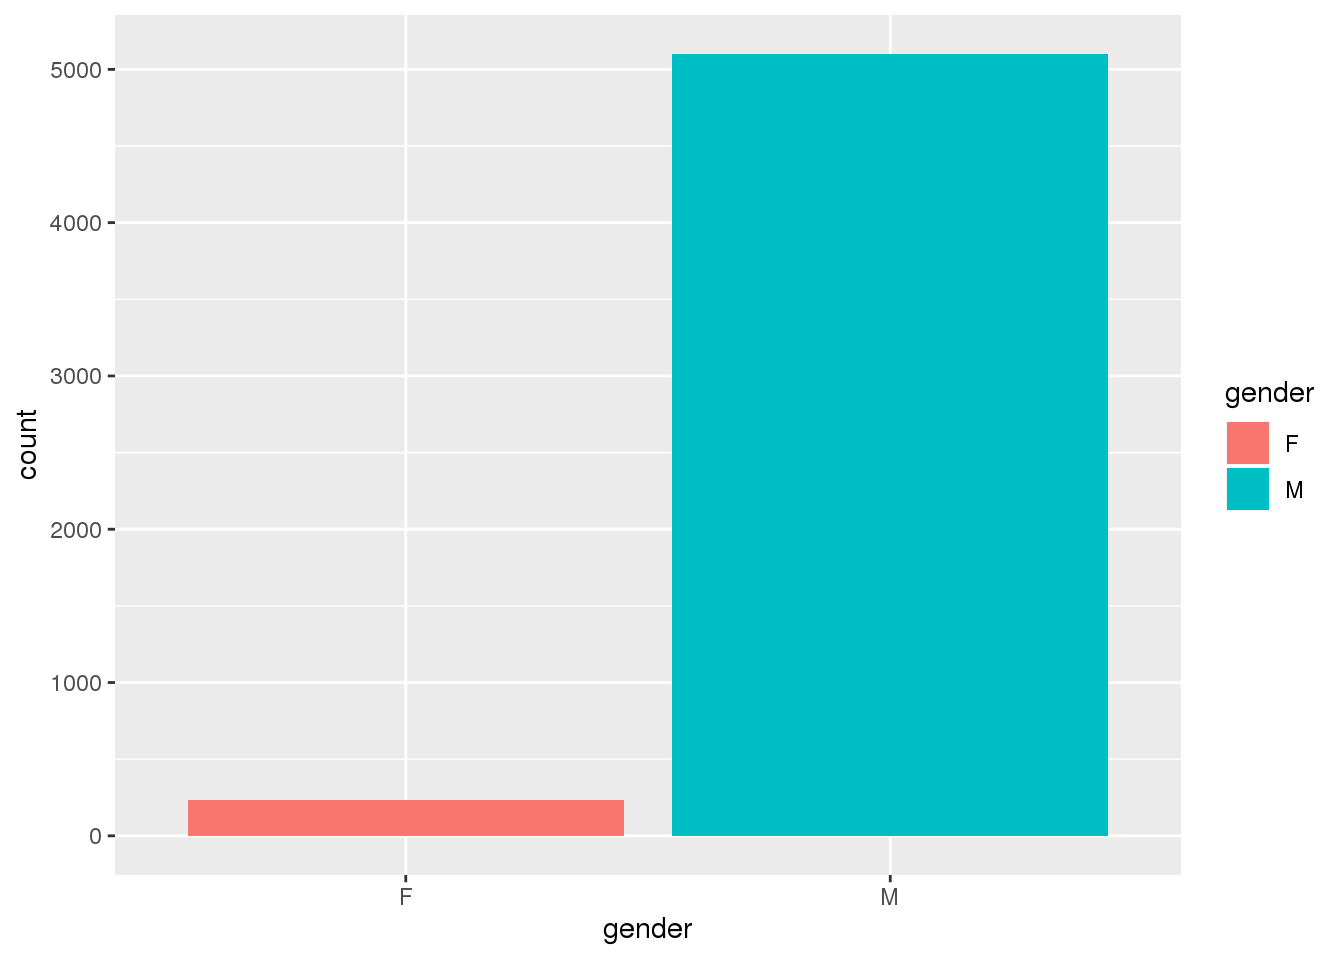
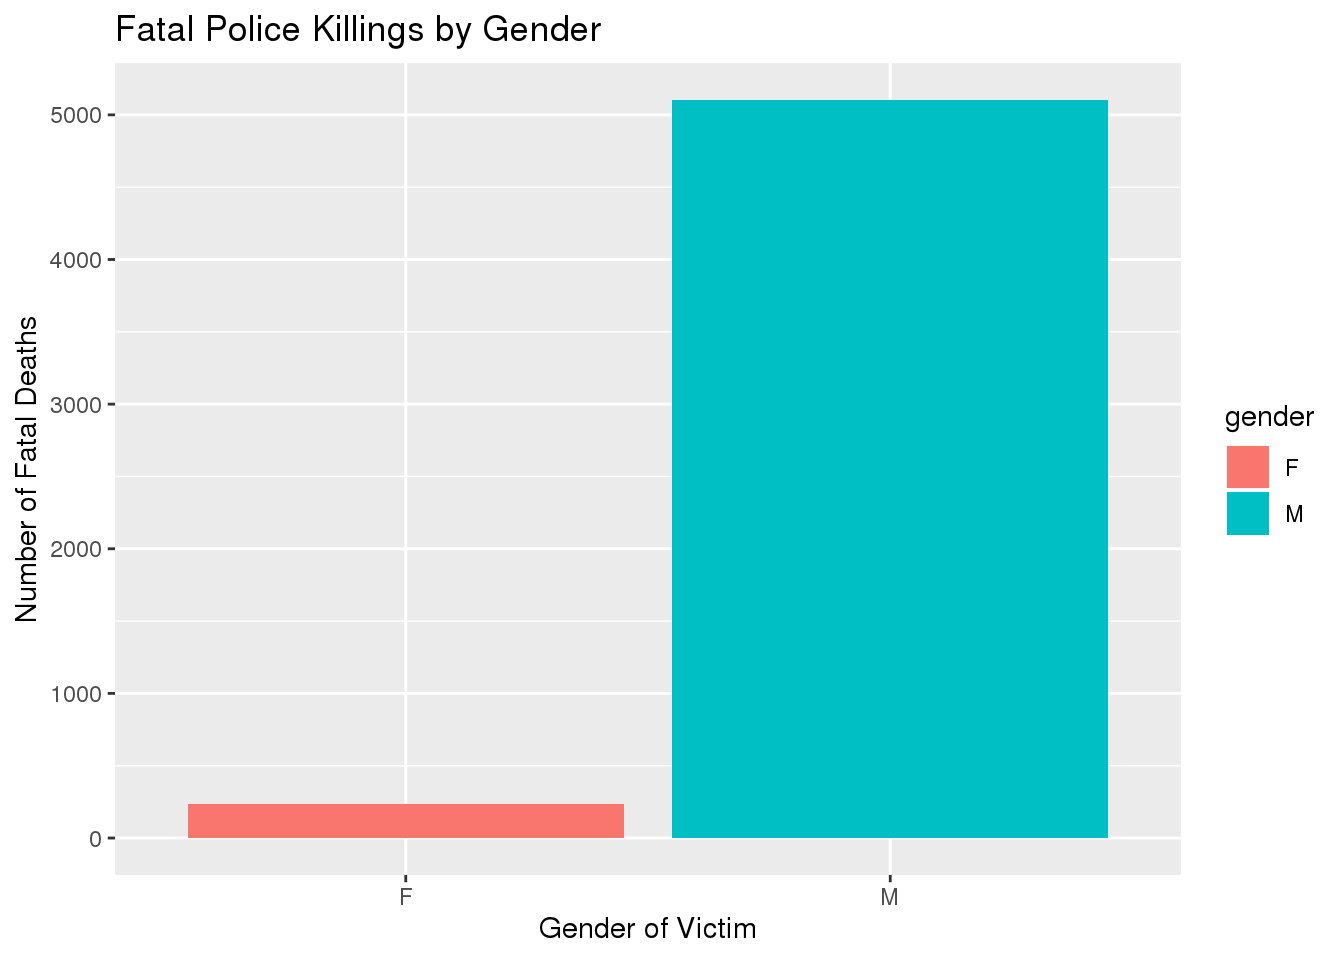
only in need of conclusion

diff --git a/content/post/2020-12-09-police-data/index.html b/content/post/2020-12-09-police-data/index.html
@@ -59,20 +59,31 @@ head(police1)</code></pre>
 ## 4 United States Department of Justice - United States Marshals Service    US
 ## 5                                   Greenville County Sheriff&#39;s Office    SC
 ## 6                                  Mecklenburg County Sheriff&#39;s Office    NC</code></pre>
-<p>Using data obtained from FiveThirtyEight, collected from The Washington Post and the census, the next dataset I am going to analyze the data of police killings and deaths in the United States, from 2015-2020. The variables in the files include the date, state, name of deceased, race, gender, ect. The US population data is from the US Census Bureau website. There are 22,800 observations and 10 variables in the “clean_data.csv” file, which go into depth about police deaths. The “police_killings.csv” goes into depth about the police killing, which has 467 observations, and 34 variables. On the last dataset, the data is a collected from multiple police station from the biggest cities in the United States. With all the different data available, there should be enough data for me to analyze.
+<p>Using data obtained from FiveThirtyEight, collected from The Washington Post and the US Census, the dataset I am going to analyze will consist of fatal police killings in the United States from 2015-2020. The variables in the files include the date of the incident, state, name of deceased, race, gender, ect. The US population data is from the US Census Bureau website. There are 22,800 observations and 10 variables in the “clean_data.csv” file, which go into depth about police deaths. The “police_killings.csv” goes into depth about the police killing, which has 467 observations, and 34 variables. On the last dataset, the data is a collected from multiple police station from the biggest cities in the United States. With all the different data available, there should be enough data for me to analyze.
 In this project, I am going to look through data which explores fatal shootings by on duty police officers since 2015. Analyzing this data, I will be asking a variety of questions to help further understand my knowledge on police killings. As I continue to ask many questions, I will try to create a vizualation of the intrepetations I will gather. I will be making graphs using ggplot in R.</p>
-<div id="question-1-where-do-the-police-killings-tend-to-happen-more-frequently." class="section level1">
-<h1>Question 1: Where do the police killings tend to happen more frequently.</h1>
-<p>Using the “police_killings.csv” data I will analyze where these police killings tend to happen more frequently, like is there a state with notably more killings than the rest. I will preform this analysis with grouping, filtering, and creating a spacial map with ggplot to visualize my analysis.
-<img src="index_files/figure-html/unnamed-chunk-2-1.png" width="672" /></p>
-<p>In the graph above, the points show where the killing was at exactly in United States in the year of 2015 alone. I plotted the longitude on the x axis and latitude on the y axis, and the results shows that there were more police killings on the eastern part of the United States compared to the west.</p>
+<div id="where-do-the-police-killings-tend-to-happen-more-frequently" class="section level1">
+<h1>Where do the police killings tend to happen more frequently?</h1>
+<p>Using the “police_killings.csv” data I will analyze where these police killings tend to happen more frequently, looking for trends like if there is a state with notably more killings than other states. I will preform this analysis with grouping, filtering, and creating a spacial map with ggplot to visualize my analysis.</p>
+<pre class="r"><code>police2 %&gt;% ggplot(aes(longitude, latitude, color = raceethnicity)) + borders(&quot;state&quot;) + 
+    geom_point() + coord_quickmap() + ggtitle(&quot;Pollice Killings in 2015&quot;) + theme(plot.title = element_text(hjust = 0.5))</code></pre>
+<p><img src="index_files/figure-html/unnamed-chunk-2-1.png" width="672" /></p>
+<p>In the graph above, the points show where the killing exactly occured in United States in the year of 2015 alone. I plotted the longitude on the x axis and latitude on the y axis, and the results shows that there were more police killings on the east side of the United States compared to the West. I also colored the dots to show what race was being killed.</p>
+<pre class="r"><code>police4 %&gt;% ggplot(aes(x = state, fill = state)) + geom_bar() + theme(legend.position = &quot;none&quot;) + 
+    theme(axis.text.x = element_text(angle = 90)) + ggtitle(&quot;Pollice Killings by State 2015-2020&quot;) + 
+    theme(plot.title = element_text(hjust = 0.5))</code></pre>
 <p><img src="index_files/figure-html/unnamed-chunk-3-1.png" width="672" /></p>
-<p>In the graph above, I was wanting to answer the question of which states tend to have the most police killings. From the results, it shows that California has significantly more police killings than any other state in the United States. This could be of many reason, for example population, size of police task force, and even the crime rate. More analysis on this to come in the near future.</p>
-</div>
-<div id="question-2-who-tend-to-be-killed-more-often" class="section level1">
-<h1>Question 2: Who tend to be killed more often?</h1>
-<p>Again, using the “police_killings.csv” data, I will group the police killings by race and compare the number of killings by race. Using this data I will be analyzing which gender tends to be killed more often by police officers. Also, I will being doing this for both police killing and police deaths, and I will be visualizing my findings with a bar chart for easy comparison.
-<img src="index_files/figure-html/unnamed-chunk-4-1.png" width="672" /></p>
+<pre class="r"><code>police4 %&gt;% filter(date &lt; &quot;2015-12-31&quot;) %&gt;% ggplot(aes(x = state, fill = state)) + 
+    geom_bar() + theme(legend.position = &quot;none&quot;) + theme(axis.text.x = element_text(angle = 90)) + 
+    ggtitle(&quot;Pollice Killings by State 2015-2020&quot;) + theme(plot.title = element_text(hjust = 0.5))</code></pre>
+<pre><code>## Warning in Ops.factor(date, &quot;2015-12-31&quot;): &#39;&lt;&#39; not meaningful for factors</code></pre>
+<p><img src="index_files/figure-html/unnamed-chunk-3-2.png" width="672" /></p>
+<p>In the graph above, I was wanting to answer the question of which states tend to have the most police killings. From the results, it shows that California has significantly more police killings than any other state in the United States. This could be of many reason, for example population, size of police task force, and even the crime rate. The two states with the most fatal police killings are also the two most populated states in the United States.</p>
+<p>#Who tend to be killed more often by police officers?</p>
+<p>Again, using the “police_killings.csv” data, I will group the police killings by race and compare the number of killings by race. Using the same data I will also be analyzing which gender tends to be killed more often by police officers. In order to analyze this, I will group by race on one graph and group by gender on another and will be visualizing my findings with a bar chart for easy comparison.</p>
+<pre class="r"><code>police4 %&gt;% filter(race != &quot;&quot;) %&gt;% ggplot(aes(x = race, fill = race)) + geom_bar() + 
+    ggtitle(&quot;Police Killings by Race (2015-2020)&quot;) + theme(plot.title = element_text(hjust = 0.5)) + 
+    ylab(&quot;Number of Deaths&quot;) + xlab(&quot;Race of Victim&quot;)</code></pre>
+<p><img src="index_files/figure-html/unnamed-chunk-4-1.png" width="672" /></p>
 <pre><code>##   id               name       date  manner_of_death      armed age gender race
 ## 1  3         Tim Elliot 2015-01-02             shot        gun  53      M    A
 ## 2  4   Lewis Lee Lembke 2015-01-02             shot        gun  47      M    W
@@ -95,7 +106,7 @@ In this project, I am going to look through data which explores fatal shootings 
 ## 5       False
 ## 6       False</code></pre>
 <p><img src="index_files/figure-html/unnamed-chunk-5-1.png" width="672" />
-Using the data set, the results tend to show that white’s are getting killed more often than any other race. Also, results show that male tend to be killed far more often than female This could be of many factors that I am yet to draw conclusions from. Using these results I will be comparing the percent population of each race in the United States to the percent of police killings by race. So, that will answer if there are more white people getting killed because there are more white people in the United States. Therefore, we are going to be able to tell which race gets killed by the police based off the percent of the population that race makes up in the United States. I will be doing this for both police killings and police deaths since 2015. The data above excluded blank/unknown spaces in the dataset.</p>
+Using the data set, the results tend to show that white’s are getting killed more often than any other race. Also, results show that male tend to be killed far more often than female. This could be of many factors that I am unable to draw conclusions from at the time. The data above included blank/unknown spaces in the dataset, so I had to filter those unknown spaces to better visualize my findings. The answer that there are more white’s getting killed might be because there are more white people in the United States. Therefore, we are unable to tell which race gets killed by the police more often based off the percent of race makes up in the United States. Additionally, the rate of fatal police shootings among certain race could be much higher than that for any other ethnicity. Though, it is undeniable that men tend to be killed far more often than women from police officers.</p>
 <p>#Question 3: How are people getting killed and what is the death cause by.
 Using the dataset, I will be asking questions like: if the victim was armed, was there signs of mental illness, the threat level of victim, and if the victim was fleeing. I will be making visualizations using ggplot bar graphs to help visualize my results.</p>
 <pre><code>## # A tibble: 5,338 x 15
